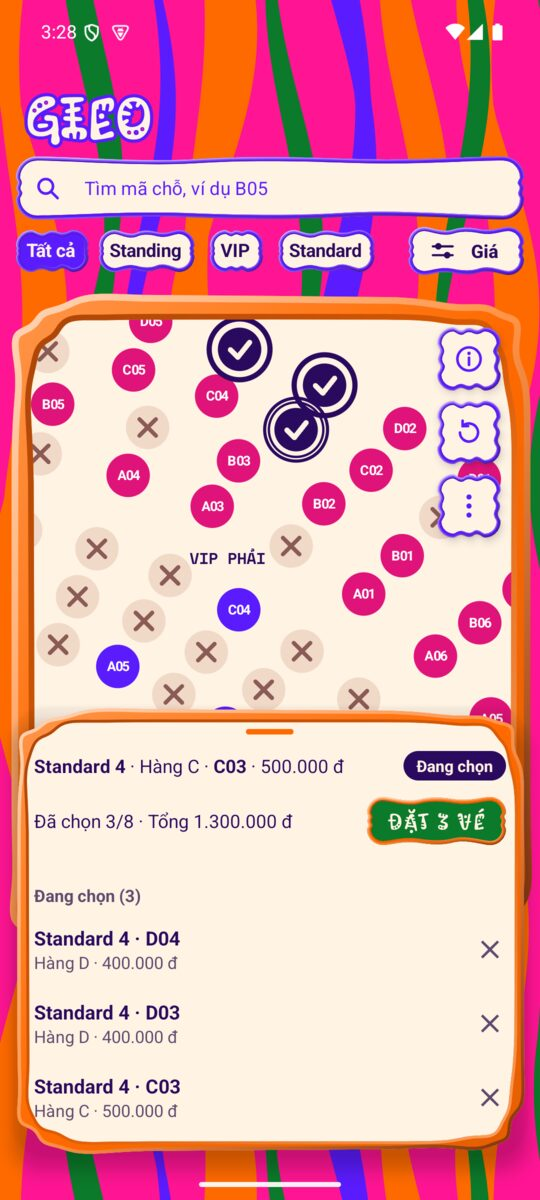
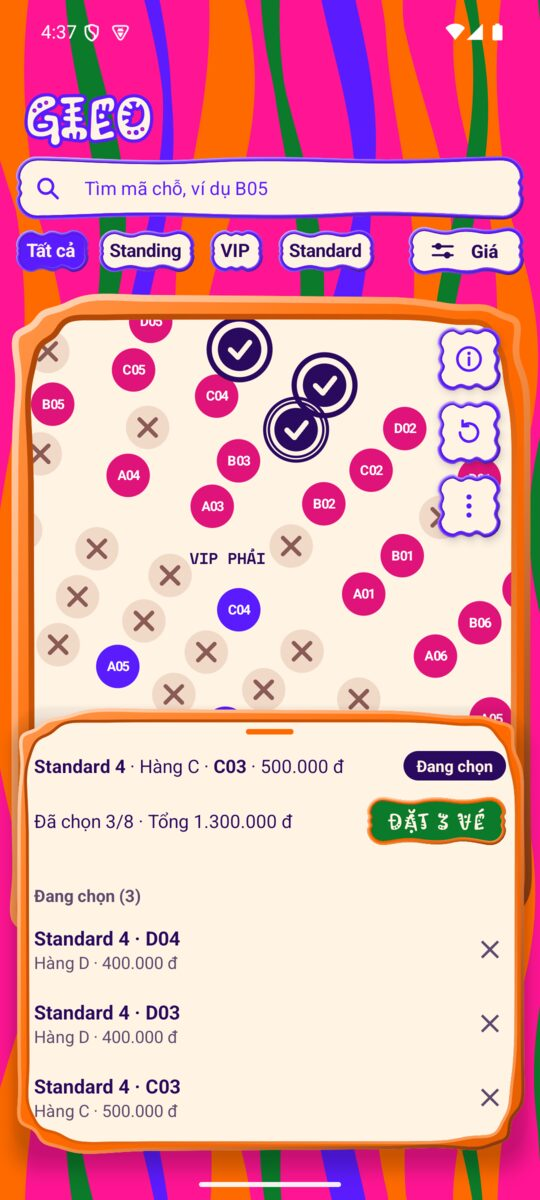
docs(readme): refresh interface screenshots
Retakes all four screenshots from the current build so the landscape
shot shows the Gieo title above the panel and the one-row zone chips,
and drops the caption note about a sticker border still in progress.

diff --git a/README.md b/README.md
@@ -40,7 +40,7 @@ Mỗi chỗ có một trong năm trạng thái hiển thị: **Còn trống**, *
 
 ### Ảnh chụp màn hình
 
-Chụp trên emulator Pixel 6 (Android 15) từ bản thử nghiệm giao diện “Poster lỏng” với viền sticker đang được chỉnh.
+Chụp trên emulator Pixel 6 (Android 15), giao diện “Poster lỏng”, từ bản code hiện tại.
 
 | Dọc, mặc định | Dọc, đã zoom, bảng chi tiết mở rộng | Hộp thoại đặt vé |
 |:---:|:---:|:---:|
